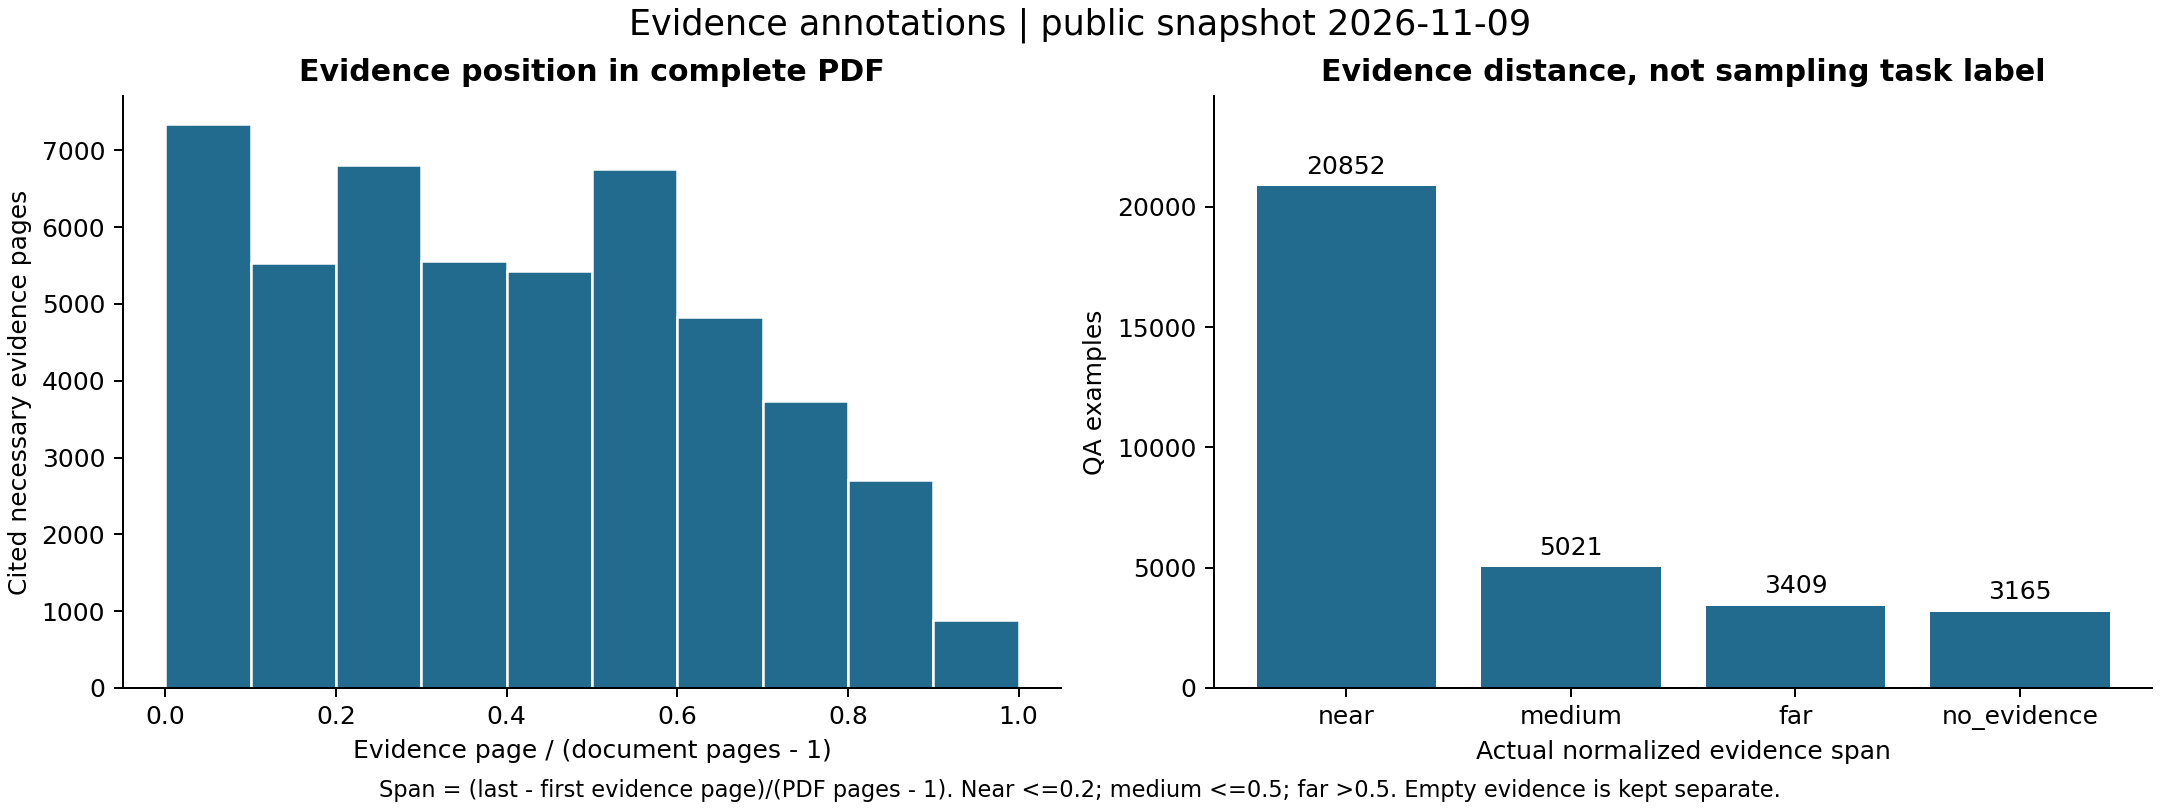
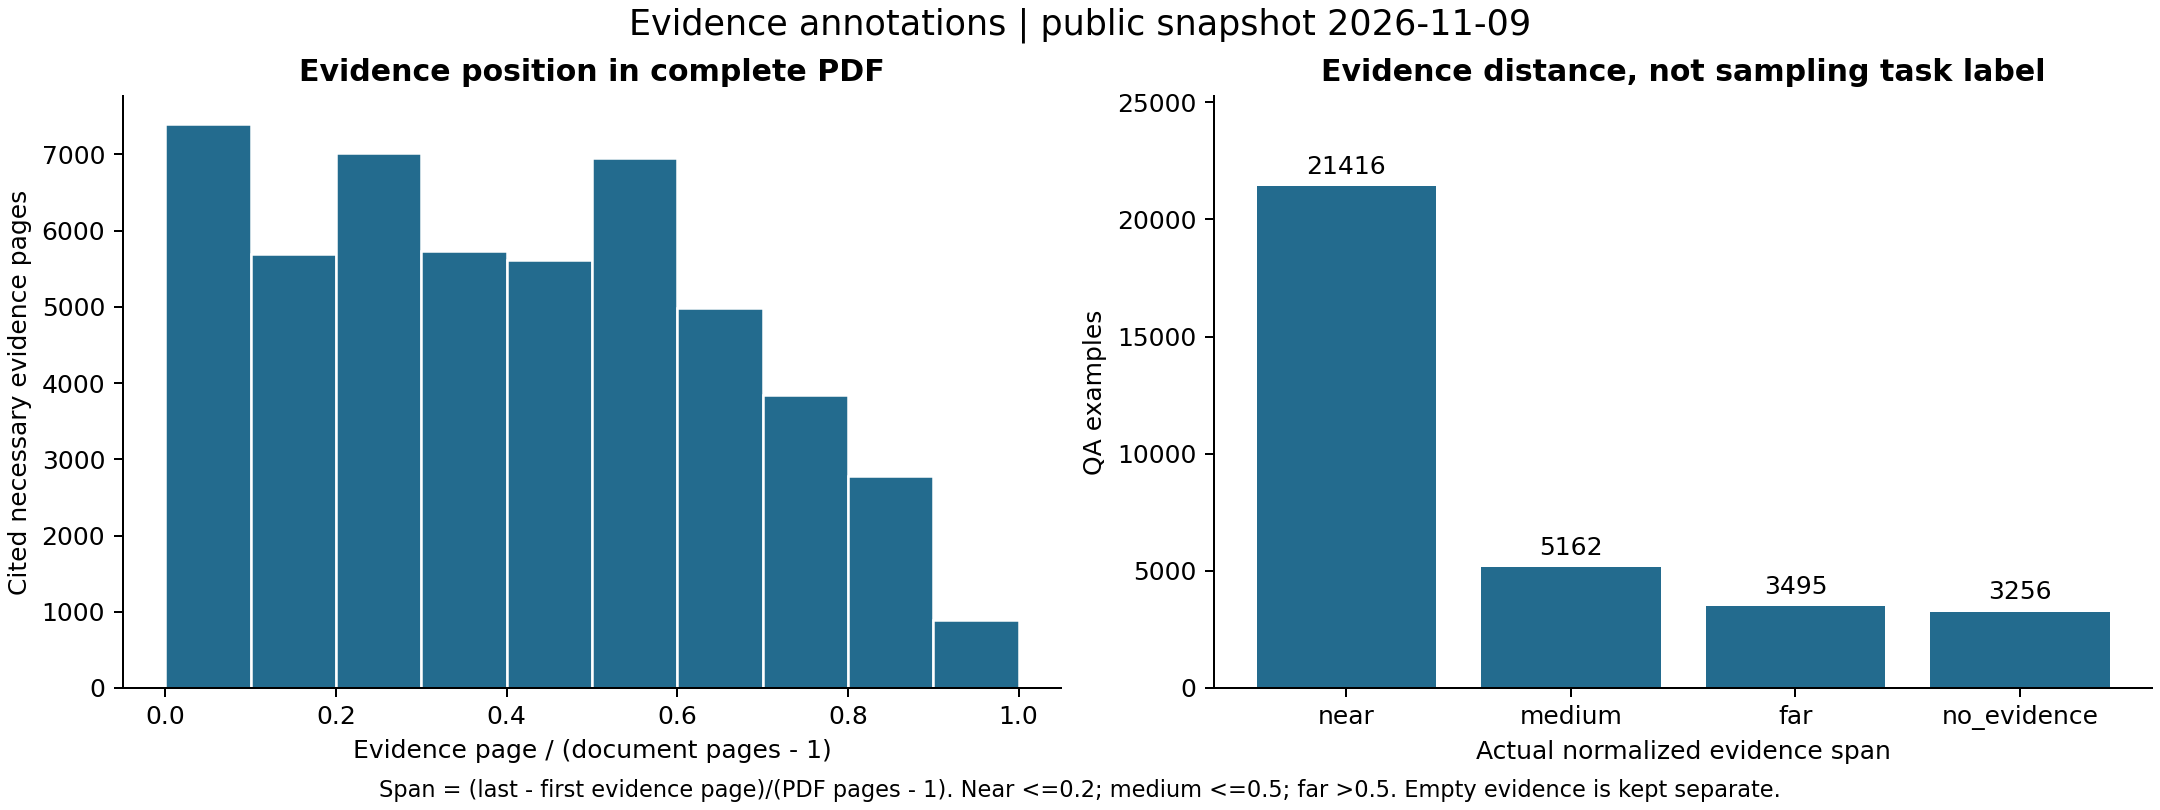
Update public corpus statistics to 2.033B measured tokens

diff --git a/docs/public_dataset.md b/docs/public_dataset.md
@@ -13,33 +13,34 @@ This page describes the admitted public snapshot identified below. It is a separ
 The manuscript defines binary prefixes (K=1024, B=2^30). Public tables use decimal K=1,000 and B=1,000,000,000; the >=100Ki statistic uses 102,400 to match the paper threshold. Exact raw counts and per-document labels are published with the dataset.
 
 <!-- PUBLIC_CORPUS_STATS_START -->
-**Public snapshot (2026-11-09): 32,447 QA examples, 4,463 source PDFs, 107,742 unique page images, and 1,986,799,667 estimated training tokens (approximately 1.987B).**
+**Public snapshot (2026-11-09): 33,329 QA examples, 4,955 source PDFs, 117,904 unique page images, and 2,033,196,094 estimated training tokens (approximately 2.033B).**
 
-[This published snapshot](https://huggingface.co/datasets/ZhaoweiWang/MMProLong-Data-Public/tree/0678faf1ed29a365c713ee89cc54d6135103fdb2); [latest data](https://huggingface.co/datasets/ZhaoweiWang/MMProLong-Data-Public).
+[This published snapshot](https://huggingface.co/datasets/ZhaoweiWang/MMProLong-Data-Public/tree/4d73ff3f32bc0f33134707bd80a7d4899dba3660); [latest data](https://huggingface.co/datasets/ZhaoweiWang/MMProLong-Data-Public).
 
 ### Corpus scale
 
 | Statistic | Public snapshot value |
 | --- | --- |
-| Admitted unique PDFs | 4,463 |
+| Admitted unique PDFs | 4,955 |
 | Document family | Public research papers |
-| Unique rendered page images | 107,742 |
-| Document pages: mean / median | 24.14 / 22 |
-| Document pages: range / 5th-95th percentile | 14-50 / 14-42 |
-| Admitted QA examples | 32,447 |
-| Estimated training tokens | 1,986,799,667 (1.987B) |
-| Per-QA tokens: mean / median | 61.232K / 54.796K |
+| Unique rendered page images | 117,904 |
+| Document pages: mean / median | 23.79 / 21 |
+| Document pages: range / 5th-95th percentile | 14-50 / 14-41 |
+| Admitted QA examples | 33,329 |
+| Estimated training tokens | 2,033,196,094 (2.033B) |
+| Per-QA tokens: mean / median | 61.004K / 54.773K |
 | Observed token range | 33,547-125,503 |
-| At least 100,000 tokens | 2,585 (7.97%) |
-| At least 100Ki = 102,400 tokens (paper threshold) | 2,171 (6.69%) |
-| Page references across all QA contexts | 781,914 |
+| At least 100,000 tokens | 2,592 (7.78%) |
+| At least 100Ki = 102,400 tokens (paper threshold) | 2,178 (6.53%) |
+| Page references across all QA contexts | 800,203 |
 
 ### Document sources
 
 | Source | Unique documents |
 | --- | --- |
 | arxiv | 4,386 |
-| plos | 77 |
+| elife | 1 |
+| plos | 568 |
 
 Tokens are the stored Qwen2.5-VL serialized-sample estimate, including full page-image context and QA/prompt text. A PDF used by several questions contributes its context repeatedly to the training-token total. This is not a count of unique-text tokens or billed API tokens. Page images are physically stored once per document.
 
@@ -49,12 +50,12 @@ Tokens are the stored Qwen2.5-VL serialized-sample estimate, including full page
 
 | Task | QA | Avg. pages | Avg. K tokens | B tokens | Pages | K-token range | >=100Ki |
 | --- | --- | --- | --- | --- | --- | --- | --- |
-| `single` | 11,742 | 23.98 | 60.91 | 0.715 | 14-50 | 33.80-125.13 | 6.63% |
-| `multi_local` | 5,842 | 24.06 | 61.22 | 0.358 | 14-50 | 33.85-125.50 | 6.59% |
-| `multi_distributed` | 5,848 | 24.05 | 61.16 | 0.358 | 14-50 | 33.84-125.29 | 6.70% |
-| `reasoning` | 5,850 | 24.07 | 61.12 | 0.358 | 14-50 | 33.55-125.11 | 6.41% |
-| `unanswerable` | 3,165 | 24.72 | 62.77 | 0.199 | 14-50 | 33.79-125.09 | 7.58% |
-| **Total** | 32,447 | 24.10 | 61.23 | 1.987 | 14-50 | 33.55-125.50 | 6.69% |
+| `single` | 12,068 | 23.89 | 60.68 | 0.732 | 14-50 | 33.80-125.13 | 6.47% |
+| `multi_local` | 5,981 | 23.99 | 61.04 | 0.365 | 14-50 | 33.85-125.50 | 6.47% |
+| `multi_distributed` | 6,011 | 23.96 | 60.93 | 0.366 | 14-50 | 33.84-125.29 | 6.55% |
+| `reasoning` | 6,013 | 23.99 | 60.90 | 0.366 | 14-50 | 33.55-125.11 | 6.25% |
+| `unanswerable` | 3,256 | 24.61 | 62.48 | 0.203 | 14-50 | 33.79-125.09 | 7.37% |
+| **Total** | 33,329 | 24.01 | 61.00 | 2.033 | 14-50 | 33.55-125.50 | 6.53% |
 
 `K = 1,000`, `B = 1,000,000,000`; `100Ki = 102,400` tokens. Average pages in this table are **QA-weighted**, whereas the corpus-scale document average counts each PDF once. The two multi-page rows may be combined for comparison with the paper's broader extraction category. Unanswerable QA is an additional public-data task. Exact values, quantiles, and the combined task grouping are in [`metadata/statistics.json`](https://huggingface.co/datasets/ZhaoweiWang/MMProLong-Data-Public/blob/main/metadata/statistics.json).
 
@@ -64,17 +65,17 @@ Tokens are the stored Qwen2.5-VL serialized-sample estimate, including full page
 
 | Primary domain | Documents | Document share | QA | QA share |
 | --- | --- | --- | --- | --- |
-| Physics | 1,321 | 29.60% | 9,282 | 28.61% |
-| Mathematics | 1,221 | 27.36% | 8,799 | 27.12% |
-| Computer Science | 1,164 | 26.08% | 9,001 | 27.74% |
-| Engineering | 350 | 7.84% | 2,640 | 8.14% |
-| Social Science | 96 | 2.15% | 673 | 2.07% |
-| Economics | 83 | 1.86% | 649 | 2.00% |
-| Biology | 79 | 1.77% | 341 | 1.05% |
-| Medicine | 74 | 1.66% | 528 | 1.63% |
-| Earth Science | 61 | 1.37% | 446 | 1.37% |
-| Other | 8 | 0.18% | 56 | 0.17% |
-| Language and Literature | 6 | 0.13% | 32 | 0.10% |
+| Physics | 1,321 | 26.66% | 9,282 | 27.85% |
+| Mathematics | 1,221 | 24.64% | 8,799 | 26.40% |
+| Computer Science | 1,166 | 23.53% | 9,005 | 27.02% |
+| Engineering | 364 | 7.35% | 2,665 | 8.00% |
+| Social Science | 188 | 3.79% | 840 | 2.52% |
+| Biology | 184 | 3.71% | 527 | 1.58% |
+| Economics | 179 | 3.61% | 824 | 2.47% |
+| Medicine | 176 | 3.55% | 708 | 2.12% |
+| Earth Science | 141 | 2.85% | 589 | 1.77% |
+| Other | 8 | 0.16% | 56 | 0.17% |
+| Language and Literature | 7 | 0.14% | 34 | 0.10% |
 
 Document and QA shares differ because historical phases generated different numbers of questions per PDF. Domain labels describe the source PDF, not a separate topic inferred for each question.
 
@@ -82,21 +83,21 @@ Document and QA shares differ because historical phases generated different numb
 
 | Answer format | QA | Share |
 | --- | --- | --- |
-| Integer | 4,896 | 15.09% |
-| Float | 1,527 | 4.71% |
-| List | 10,812 | 33.32% |
-| String | 12,047 | 37.13% |
-| Unanswerable | 3,165 | 9.75% |
+| Integer | 5,024 | 15.07% |
+| Float | 1,672 | 5.02% |
+| List | 11,160 | 33.48% |
+| String | 12,217 | 36.66% |
+| Unanswerable | 3,256 | 9.77% |
 
-There are **29,282 answerable** and **3,165 unanswerable** QA examples. The observed necessary-evidence page counts are: 0 pages: 3,165, 1 pages: 14,799, 2 pages: 9,620, 3 pages: 3,897, 4 pages: 966.
+There are **30,073 answerable** and **3,256 unanswerable** QA examples. The observed necessary-evidence page counts are: 0 pages: 3,256, 1 pages: 15,196, 2 pages: 9,914, 3 pages: 3,968, 4 pages: 993, 6 pages: 1, 7 pages: 1.
 
 <details>
 <summary>Observed QA count per source document</summary>
 
 | QA per document | Documents |
 | --- | --- |
-| 1 | 189 |
-| 2 | 1,867 |
+| 1 | 291 |
+| 2 | 2,257 |
 | 6 | 1 |
 | 8 | 1 |
 | 9 | 7 |
@@ -114,8 +115,8 @@ The 20-QA documents belong to the initial pilot; the two-QA limit applies to the
 | Recorded method | QA |
 | --- | --- |
 | legacy_full_document | 32,432 |
-| document_tool_agent_v1 | 8 |
-| released_prompt_window_v1 | 7 |
+| released_prompt_window_v1 | 551 |
+| document_tool_agent_v1 | 346 |
 
 ### Domain-label provenance
 
@@ -124,18 +125,18 @@ The 20-QA documents belong to the initial pilot; the two-QA limit applies to the
 | majority of full-context generator domain labels | 4,330 |
 | arXiv primary category mapping | 113 |
 | manual primary-topic classification for validated pilot batches | 9 |
-| Crossref subject-query sampling; provisional until generator topic vote | 3 |
-| majority of independent full-document verifier topic labels | 8 |
+| majority of independent full-document verifier topic labels | 487 |
+| Crossref subject-query sampling; provisional until generator topic vote | 16 |
 
 ## Document language
 
 | Estimated document language | Documents | Document share | Associated QA |
 | --- | --- | --- | --- |
-| English (`en`) | 4,458 | 99.888% | 32,407 |
-| Spanish (`es`) | 2 | 0.045% | 14 |
-| French (`fr`) | 1 | 0.022% | 2 |
-| Russian (`ru`) | 1 | 0.022% | 12 |
-| Chinese (`zh`) | 1 | 0.022% | 12 |
+| English (`en`) | 4,950 | 99.899% | 33,289 |
+| Spanish (`es`) | 2 | 0.040% | 14 |
+| French (`fr`) | 1 | 0.020% | 2 |
+| Russian (`ru`) | 1 | 0.020% | 12 |
+| Chinese (`zh`) | 1 | 0.020% | 12 |
 
 Language labels are automatic estimates from sampled embedded PDF text; non-English/uncertain predictions receive a prose-filter recheck. They are not human-verified. Method, sampled pages, scores and recheck provenance are retained with each document.
 
@@ -143,14 +144,14 @@ Language labels are automatic estimates from sampled embedded PDF text; non-Engl
 
 | Recorded generation model | Documents | QA | QA share | B training tokens |
 | --- | --- | --- | --- | --- |
-| `gpt-5.5-2026-04-24` | 2,407 | 28,524 | 87.91% | 1.745 |
-| `gpt-5.6-sol` | 2,056 | 3,923 | 12.09% | 0.242 |
+| `gpt-5.5-2026-04-24` | 2,407 | 28,524 | 85.58% | 1.745 |
+| `gpt-5.6-sol` | 2,548 | 4,805 | 14.42% | 0.289 |
 
 | Phase | Documents | QA | Maximum QA per document |
 | --- | --- | --- | --- |
 | Initial pilot (GPT-5.5) | 4 | 80 | 20 |
 | GPT-5.5 production | 2,403 | 28,444 | 12 |
-| Current GPT-5.6 production | 2,056 | 3,923 | 2 |
+| Current GPT-5.6 production | 2,548 | 4,805 | 2 |
 
 The current snapshot is a **mixed-model historical release**, not an all-GPT-5.6 corpus. Use the `model` field when a model-specific subset is required.
 

diff --git a/README.md b/README.md
@@ -40,7 +40,7 @@ Please check out the [paper](https://arxiv.org/abs/2605.13831) for the study and
 ## 📢 Latest Updates
 
 <!-- PUBLIC_CORPUS_SUMMARY_START -->
-**Public snapshot (2026-11-09): 32,447 QA examples, 4,463 source PDFs, 107,742 unique page images, and 1,986,799,667 estimated training tokens (approximately 1.987B).**
+**Public snapshot (2026-11-09): 33,329 QA examples, 4,955 source PDFs, 117,904 unique page images, and 2,033,196,094 estimated training tokens (approximately 2.033B).**
 
 [Dataset](https://huggingface.co/datasets/ZhaoweiWang/MMProLong-Data-Public) | [Statistics](docs/public_dataset.md)
 <!-- PUBLIC_CORPUS_SUMMARY_END -->
